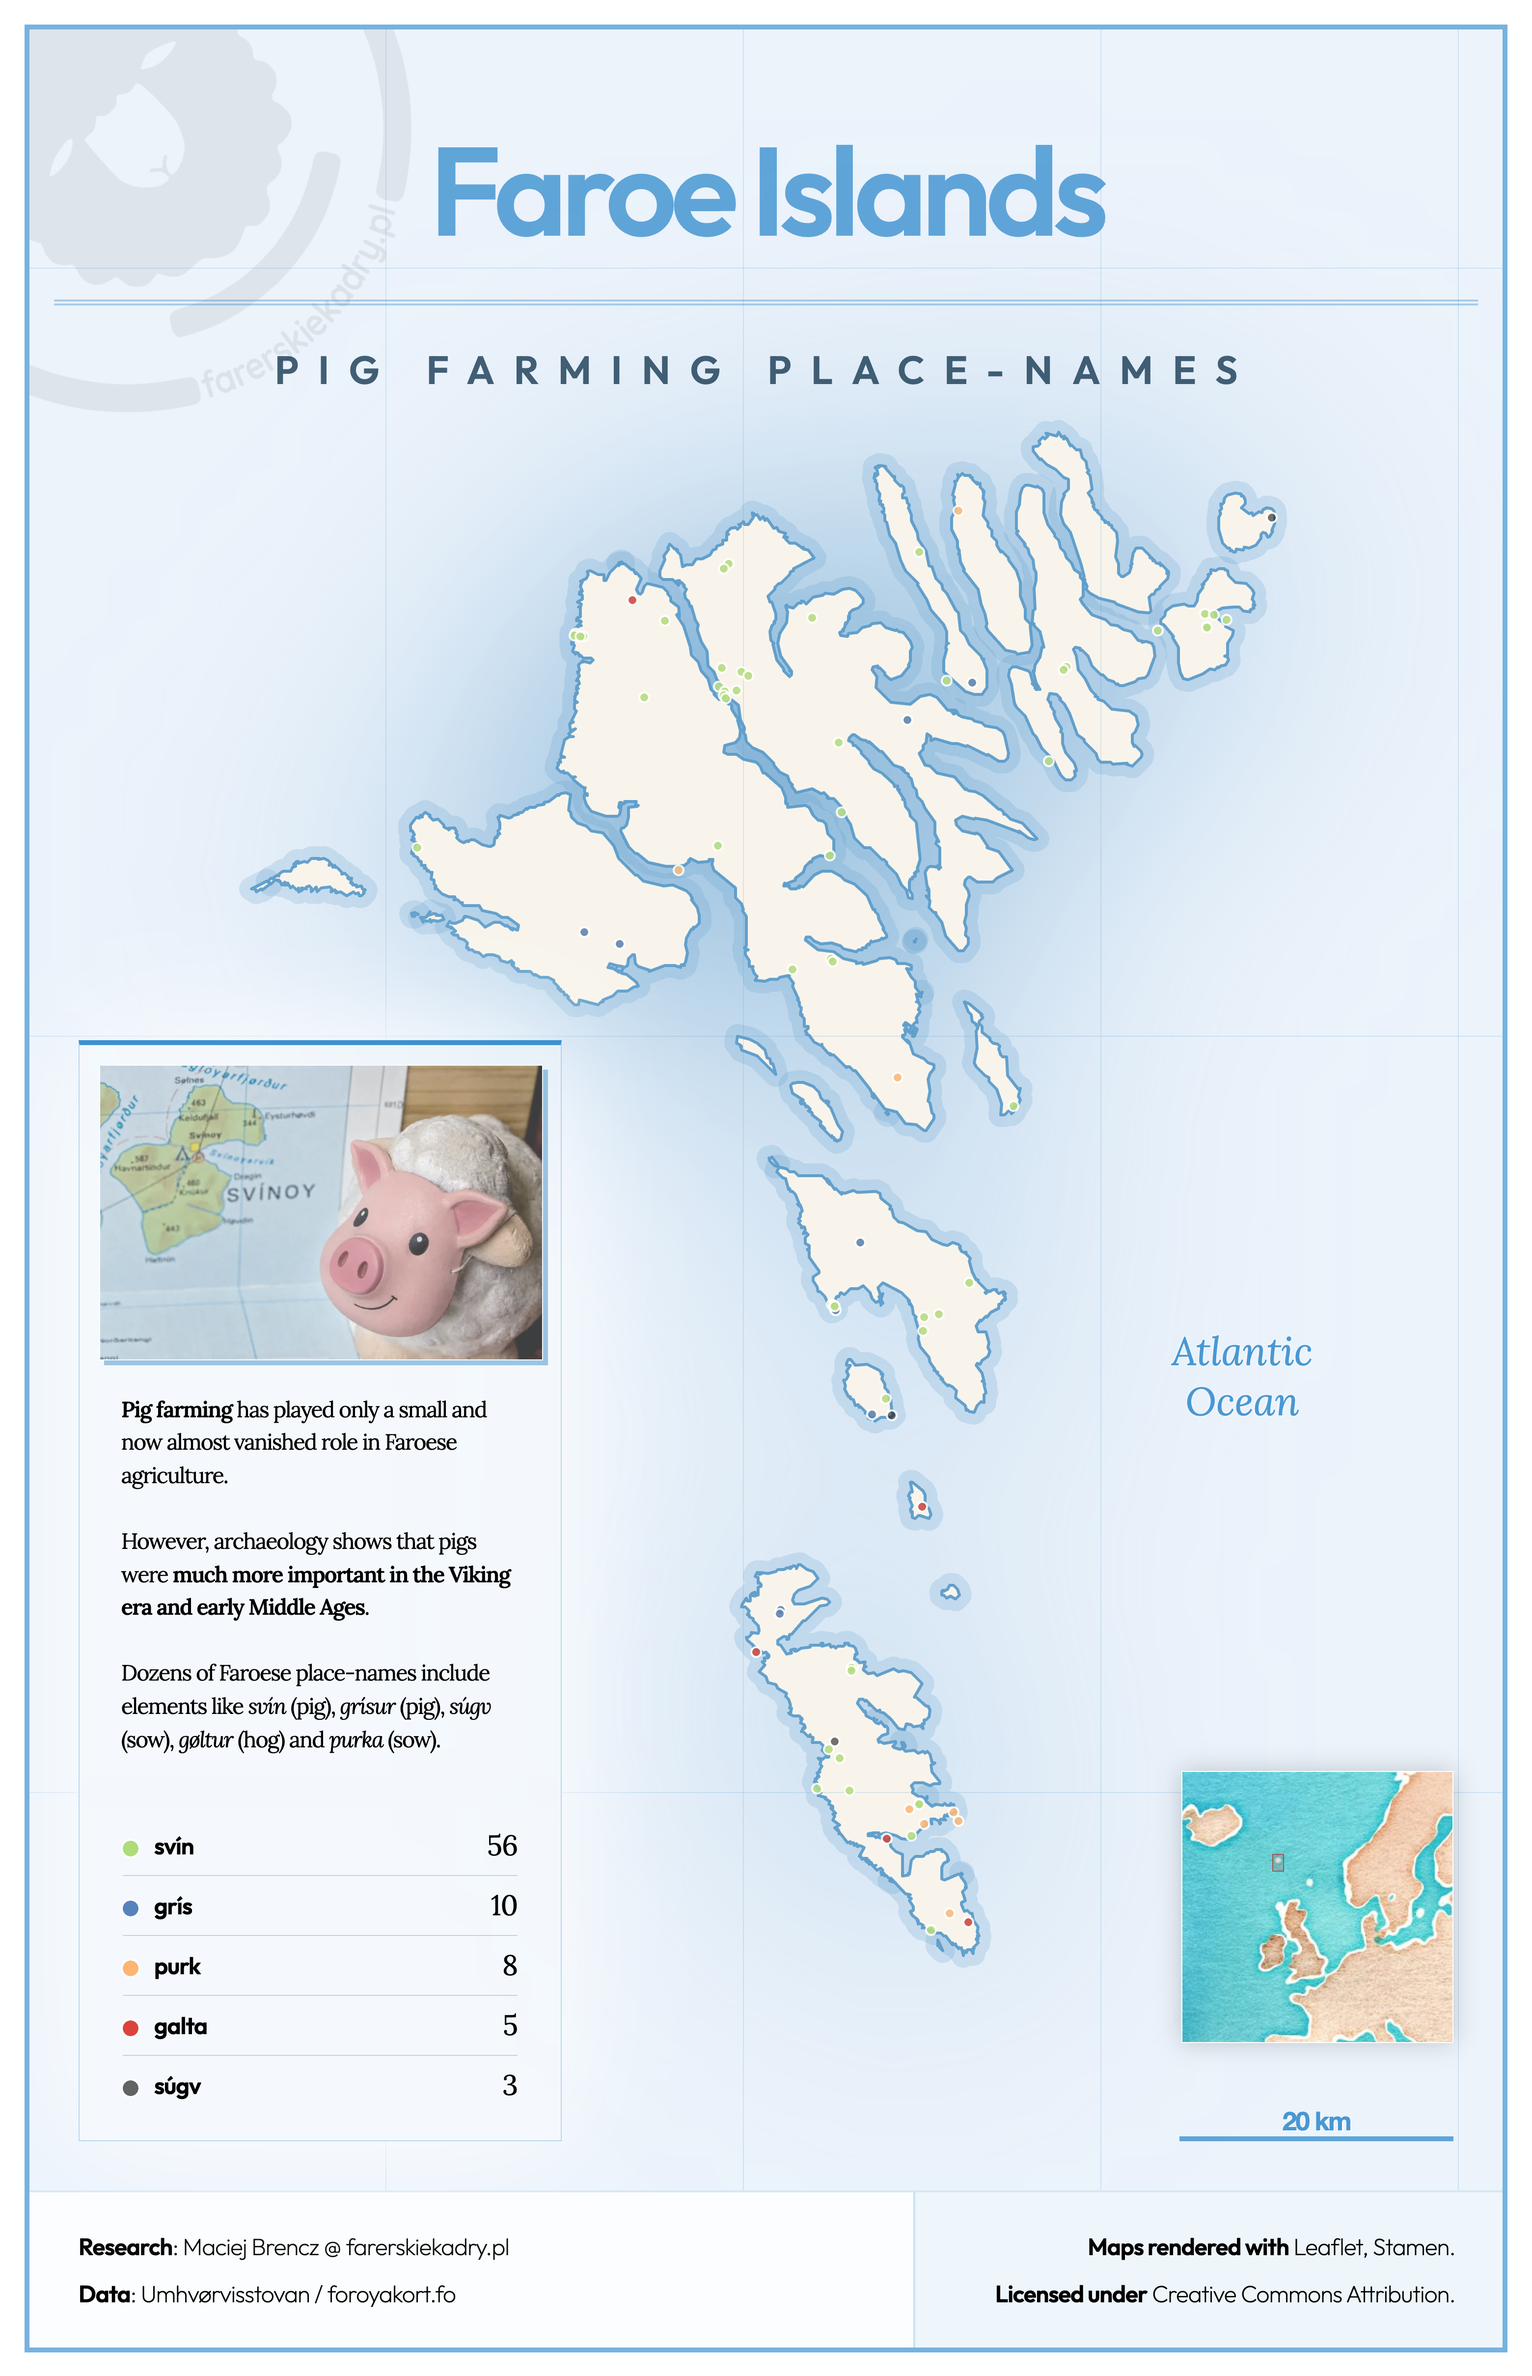
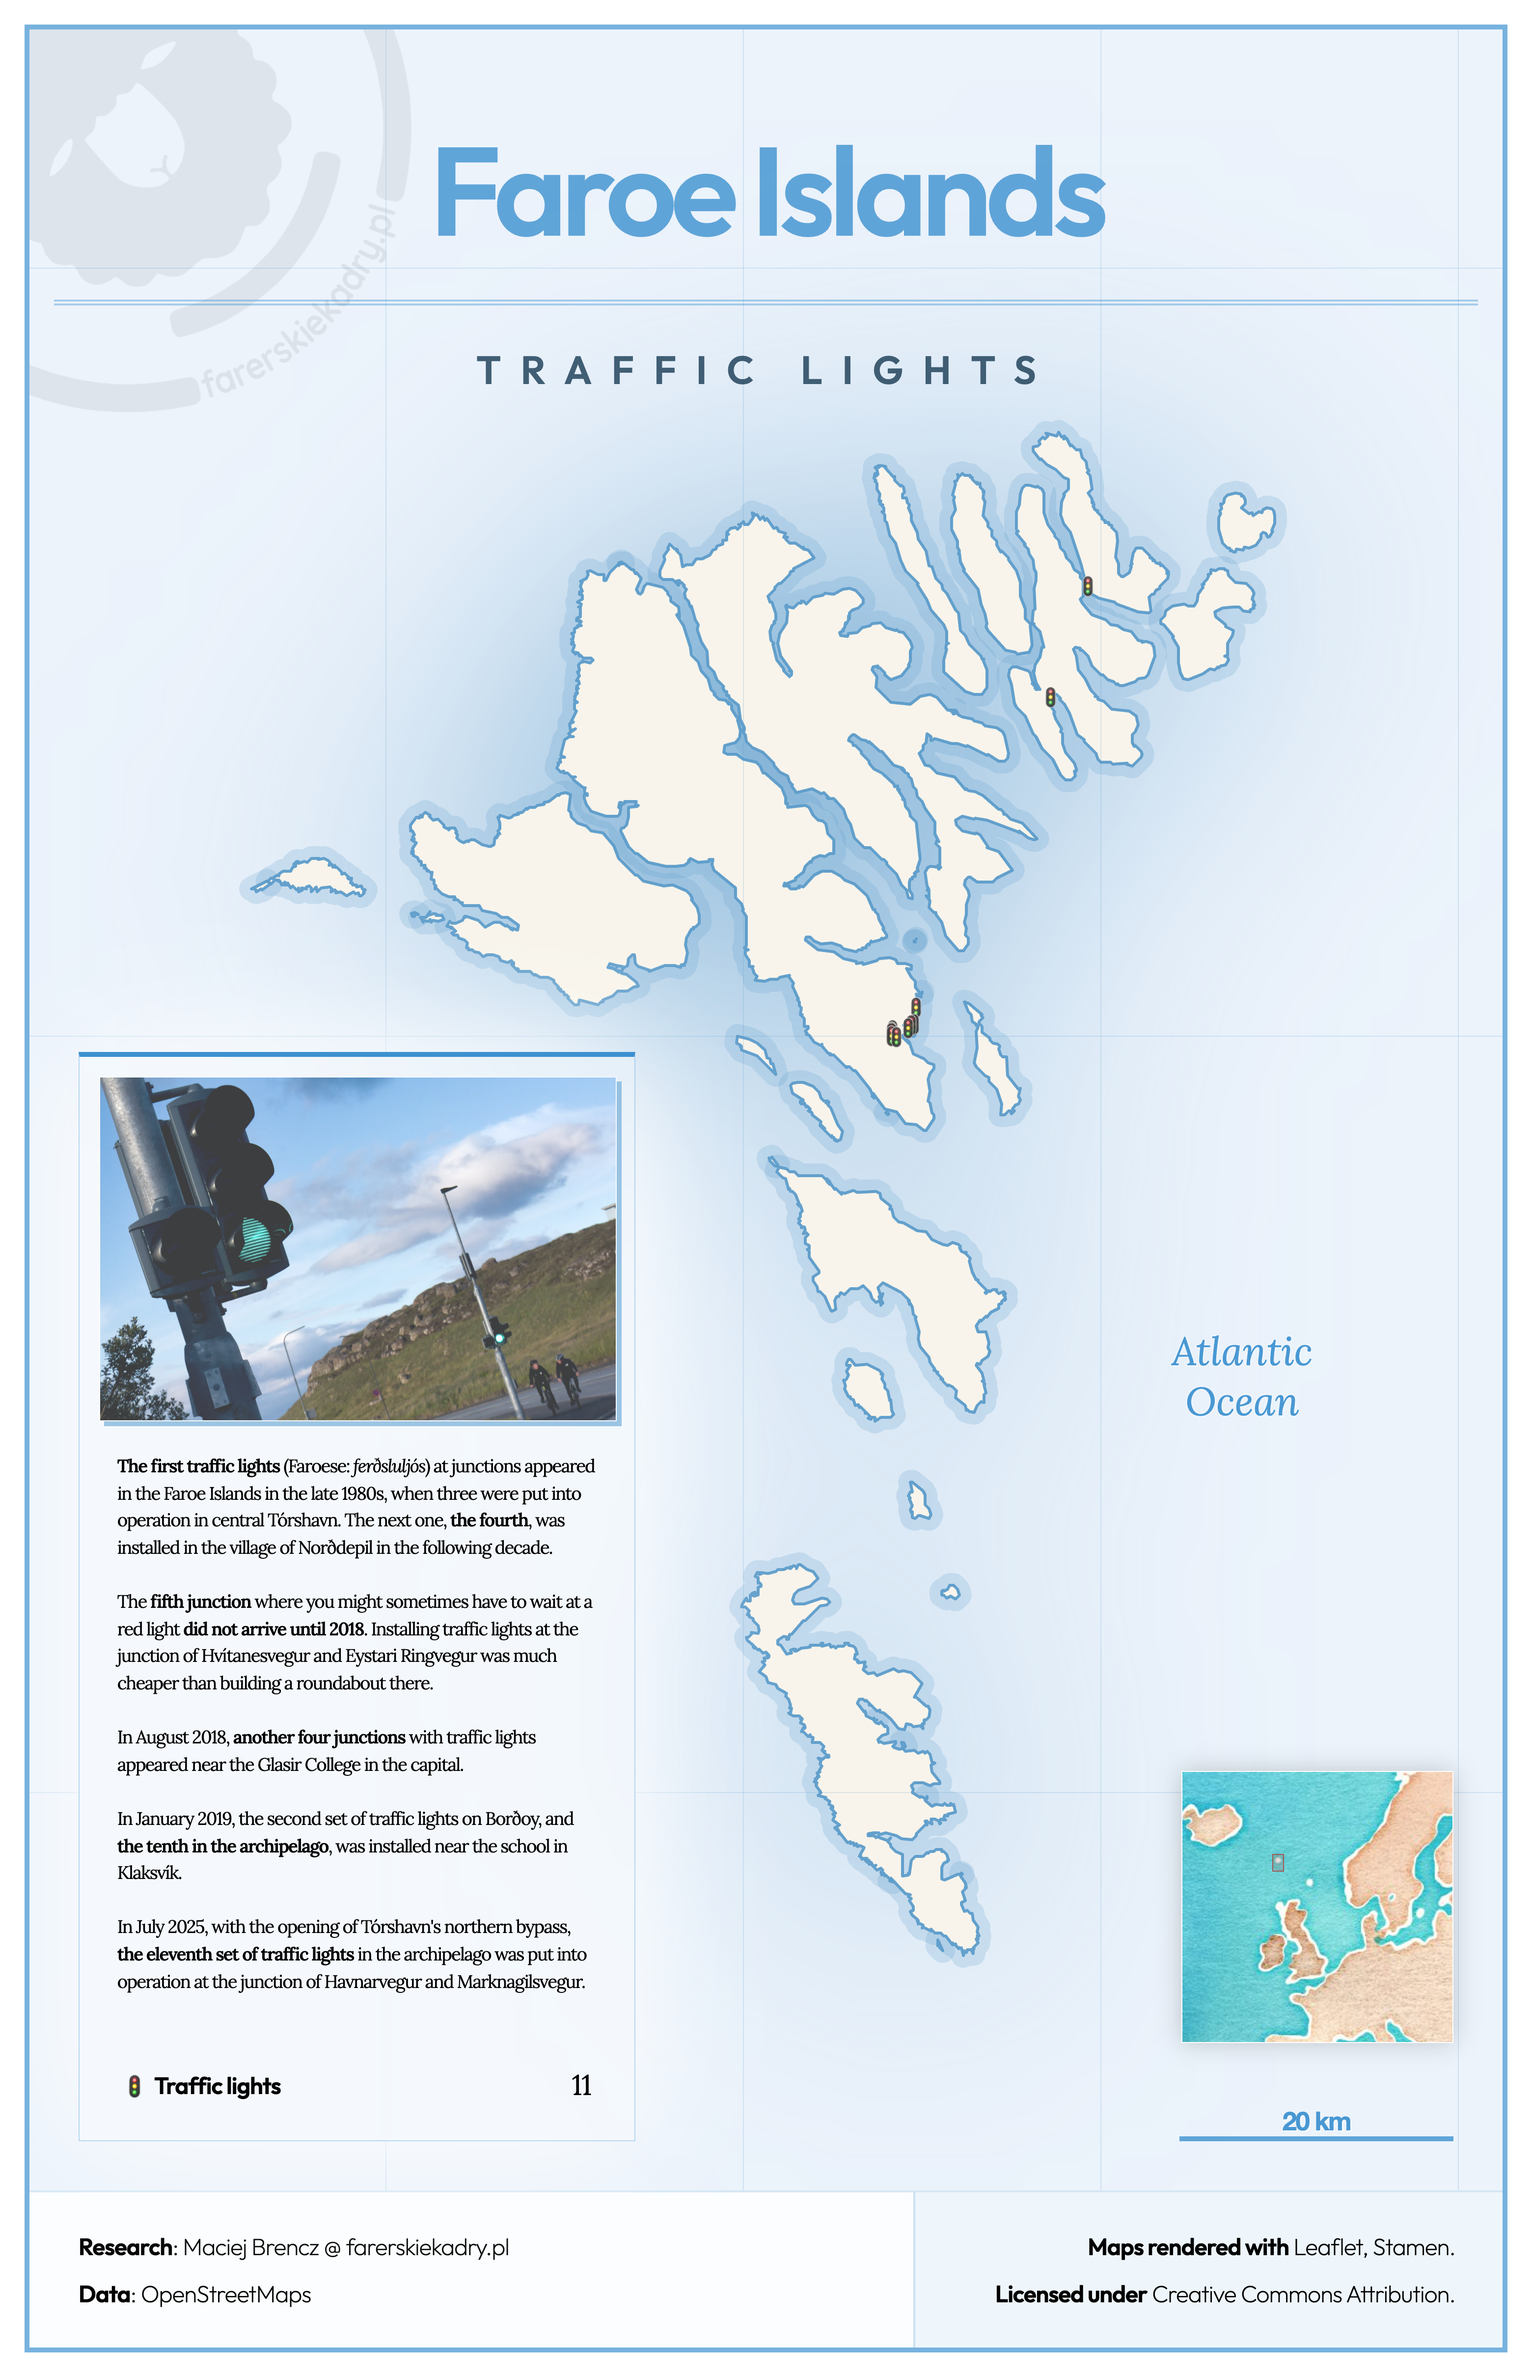
Add the "Traffic Lights" map (see #1)

diff --git a/faroe.html b/faroe.html
@@ -28,24 +28,40 @@
 				<h1 lang="en">Faroe Islands</h1>
 				<h1 lang="pl">Wyspy Owcze</h1>
 
-				<h2 lang="en">Pig farming place‑names</h2>
-				<h2 lang="pl">Świnkowe toponimy</h2>
+				<h2 lang="en">Traffic Lights</h2>
+				<h2 lang="pl">Skrzyżowania ze światłami</h2>
 
 				<legend>
-					<img src="https://i0.wp.com/farerskiekadry.pl/wp-content/uploads/2026/05/Wyspy_Swinkowe.jpg?w=800&quality=89&ssl=1">
+					<img src="https://i0.wp.com/farerskiekadry.pl/wp-content/uploads/2024/04/53679957871_43d44d2398_o_d-scaled.jpg?resize=1920%2C1277&quality=89&ssl=1">
 <!--					<div id="legend-overlay">🧻</div>-->
 					<p lang="en">
-						<strong>Pig farming</strong> has played only a small and now almost vanished role in Faroese agriculture.
+						<strong>The first traffic lights</strong> (Faroese: <em>ferðsluljós</em>) at junctions appeared in the Faroe Islands in the late 1980s, when three were put into operation in central Tórshavn.
+						The next one, <strong>the fourth</strong>, was installed in the village of Norðdepil in the following decade.
 						<br><br>
-						However, archaeology shows that pigs were <strong>much more important in the Viking era and early Middle Ages</strong>.
+						The <strong>fifth junction</strong> where you might sometimes have to wait at a red light <strong>did not arrive
+						until 2018</strong>. Installing traffic lights at the junction of Hvítanesvegur and Eystari Ringvegur was
+						much cheaper than building a roundabout there.
 						<br><br>
-						Dozens of Faroese place‑names include elements like <em>svín</em> (pig), <em>grísur</em> (pig), <em>súgv</em> (sow), <em>gøltur</em> (hog) and <em>purka</em> (sow).
+						In August 2018, <strong>another four junctions</strong> with traffic lights appeared near the Glasir College in
+						the capital.
+						<br><br>
+						In January 2019, the second set of traffic lights on Borðoy, and <strong>the tenth in the
+						archipelago</strong>, was installed near the school in Klaksvík.
+						<br><br>
+						In July 2025, with the opening of Tórshavn's northern bypass, <strong>the eleventh set of traffic lights</strong> in the archipelago was put into operation at the junction of Havnarvegur and Marknagilsvegur.
 					</p>
 					<p lang="pl">
-						<strong>Hodowla świń</strong> to współcześnie nisza w farerskim rolnictwie.
-						Znaleziska archeologiczne wskazują jednak, że w epoce wikingów i wczesnym średniowieczu <strong>świnie na Wyspach Owczych były znacznie ważniejsze</strong>.
+						<strong>Pierwsze sygnalizacje świetlne</strong> (far. <em>ferðsluljós</em>) na skrzyżowaniach pojawiły się na Wyspach Owczych <strong>pod koniec lat 80-tych</strong> - trzy uruchomiono w centrum Tórshavn.
+						Nastepną, <strong>czwartą sygnalizację</strong> zainstalowano w osadzie Norðdepil w kolejnej dekadzie.
 						<br><br>
-						Mapy archipelagu wypełniają tuziny "świnkowych" śladów. Łatwo znajdziecie na nich słowa takie jak <em>svín</em> (świnia), <em>grísur</em> (świnia), <em>súgv</em> (locha), <em>gøltur</em> (wieprz) czy <em>purka</em> (locha).
+						Na <strong>piąte skrzyżowanie</strong>, na którym przyjdzie czasem postać "na czerwonym" trzeba było czekać <strong>aż do roku 2018</strong>. Instalacja świateł u zbiegu Hvítanesvegur i Eystari Ringvegur była znacznie tańsza niż budowa w tym miejscu ronda.
+						<!-- https://kvf.fo/greinar/2018/04/12/traffic-lights-ease-congestion-busy-junction -->
+						<br><br>
+						W roku 2018 w pobliżu stołecznej szkoły Glasir pojawiła się <strong>kolejna czwórka</strong> skrzyżowań z sygnalizacją świetlną.
+						<br><br>
+						W styczniu 2019 roku zainstalowano drugą na wyspie Borðoy i <strong>dziesiątą na archipelagu sygnalizację świetlną</strong> - w pobliżu szkoły w Klaksvík.
+						<br><br>
+						W lipcu 2025 roku, wraz z otwarciem północnej obwodnicy Tórshavn, na skrzyżowaniu Havnarvegur z Marknagilsvegur uruchomiono <strong>jedenastą sygnalizację świetlną na archipelagu</strong>.
 					</p>
 					<ul>
 						<!--<li><span class="marker black"></span><span lang="en">major towns</span><span lang="pl">główne miasta</span></li>-->
@@ -83,7 +99,7 @@
 						<strong lang="en">Research</strong><strong lang="pl">Opracowanie</strong>: Maciej Brencz @ farerskiekadry.pl
 					</p>
 					<p>
-						<strong lang="en">Data</strong><strong lang="pl">Dane</strong>: Umhvørvisstovan / foroyakort.fo<!-- , Landsverk, Umhvørvisstovan, Strandfaraskip Landsins, SEV, OpenStreetMaps, rusan.fo--><!--, WikiData,, Visit Faroe Islands-->
+						<strong lang="en">Data</strong><strong lang="pl">Dane</strong>: OpenStreetMaps<!--Umhvørvisstovan / foroyakort.fo--><!-- , Landsverk, Umhvørvisstovan, Strandfaraskip Landsins, SEV, OpenStreetMaps, rusan.fo--><!--, WikiData,, Visit Faroe Islands-->
 					</p>
 				</div>
 
@@ -188,7 +204,7 @@
 				let counts = [];
 				**/
 
-				/**/
+				/**
 				// Around 140 Faroese place‑names include elements like svín (swine), grís (pig), súgv (sow), galta (boar) and purk (pig), concentrated especially in southern islands and the north‑western parts of Streymoy, Eysturoy and Vágar
 				const namesMapping = {
 					'svín': 'green', // svín  - pig
@@ -197,8 +213,9 @@
                     'galta': 'red', // gøltur - hog / boar (galta - plural genitiv)
                     'súgv': 'black', // súgv - sow
                 };
+				**/
 
-				L.geoJSON(await fetchGeoJSON('/geojson/us-stadarnovn-us_stadarnovn-1-main.json'), {
+				L.geoJSON(await fetchGeoJSON('/geojson/osm-highway-traffic_signals.geojson'), {
                     /**
 					 * @ts-check
 					 * @param feature {GeoFeature} */
@@ -214,6 +231,7 @@
 						// // "denomination": "roman_catholic",
 						// const isCatholic = feature.properties.denomination === 'roman_catholic';
 
+						/**
                         let color = undefined;
 
                         for (const [name, _color] of Object.entries(namesMapping)) {
@@ -246,6 +264,9 @@
 						// else if (isWooden) {
 						// 	color = 'green';
 						// }
+						**/
+
+                        const color = 'green';
 
 						// false - big, true - small icon
 						L.marker([geo[1], geo[0]], {icon: getIcon(color, '', true), pane: `markers-${color}`})
@@ -258,11 +279,11 @@
 					}
 				});
 
-                for (const [name, color] of Object.entries(namesMapping)) {
-                    addLabel(color, name, name, counts[color]);
-				}
+                // for (const [name, color] of Object.entries(namesMapping)) {
+                //     addLabel(color, name, name, counts[color]);
+				// }
 
-				// addLabel('green', 'Public toilet', 'Toaleta publiczna', counts['green']);
+				addLabel('green', 'Traffic lights', 'Skrzyżowanie z sygnalizacją', counts['green']);
 				/**/
 				/**
 				const res = await fetch('./geojson/flickr-faroe.csv');
@@ -335,8 +356,14 @@
 		</script>
 
 		<style>
+			legend {
+				/*width: 30%;*/
+				width: 35%;
+			}
+
 			legend p {
-				font-size: 2.8em;
+				/*font-size: 2.8em;*/
+				font-size: 2.3em;
 			}
 
 			/**
@@ -466,11 +493,11 @@
 				box-shadow: none;
 			}**/
 
-			/* WC */
-			/**
+			/* traffic lights */
+			/**/
 			.marker.green::before {
 				color: #000;
-				content: '🚻';
+				content: '🚦';
 				line-height: 1em;
 				font-size: 1.8em;
 			}
@@ -485,7 +512,7 @@
 				position: absolute;
   				top: -6px;
             }
-			**/
+			/**/
 			#legend-overlay {
                 position: absolute;
 				top: -40px;
